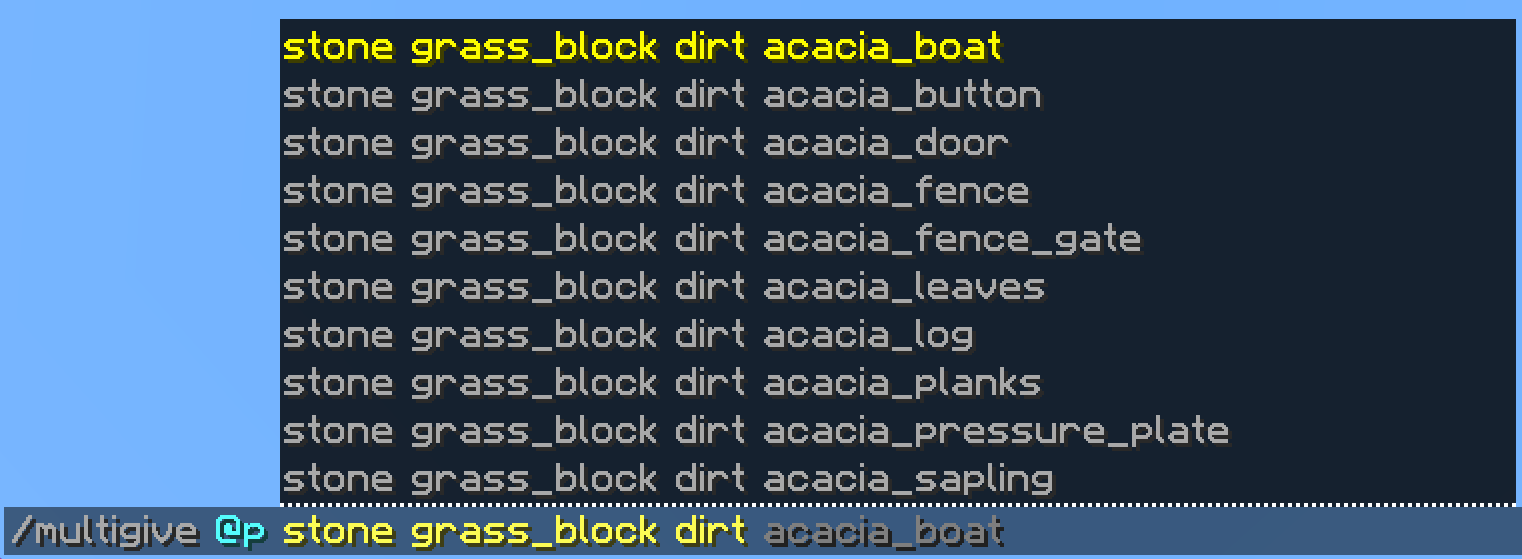
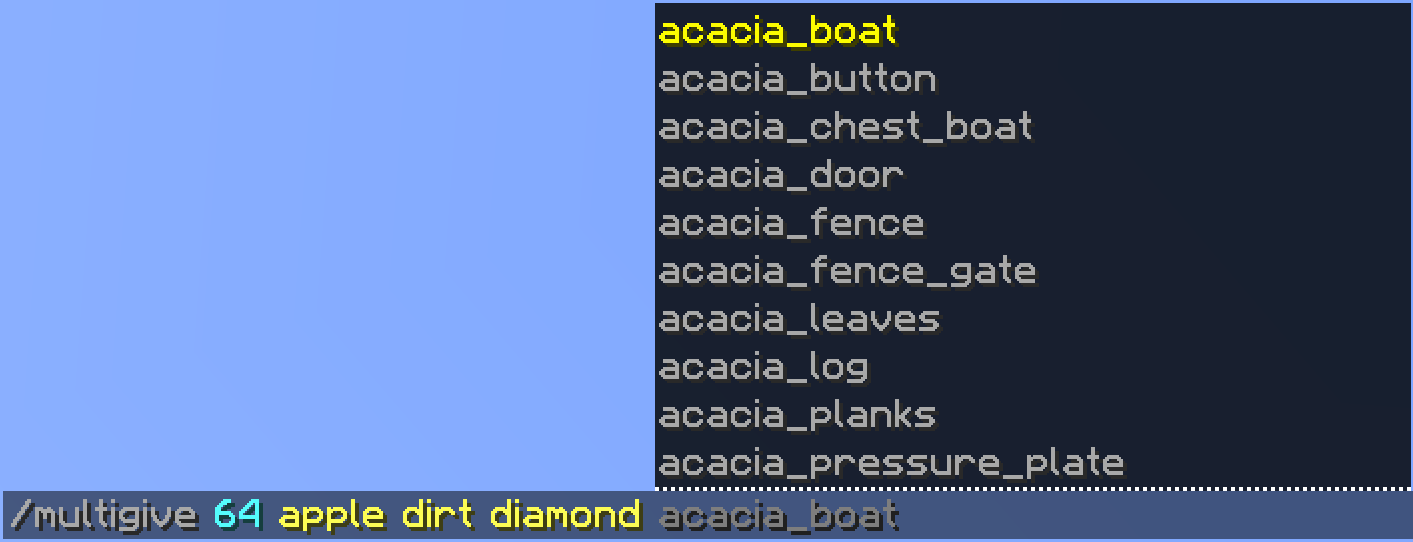
Update list argument and world argument images in the documentation

diff --git a/docssrc/src/commandarguments.md b/docssrc/src/commandarguments.md
@@ -169,7 +169,7 @@ In the above example about restricted commands, we used `null` and `ArgumentSugg
 
 #### Null suggestions
 
-Null suggestions ensure that the suggestions at the current position will not be overridden. In the case of the `CommandArgument`, this means that the default command suggestions will be provided. For example, if we have the following `null` entry in our suggestions, users are allowed to enter a value if they choose to do so, meaning that the examples below are both valid:
+Null suggestions ensure that the suggestions at the current position will not be overridden. In the case of the `CommandArgument`, this means that the default command suggestions will be provided. For example, if we have the following `null` entry in our suggestions, users are allowed to enter a value if they choose to do so, meaning that the examples below are all valid:
 
 ```java
 SuggestionsBranch.suggest(
@@ -181,7 +181,8 @@ SuggestionsBranch.suggest(
 
 ```mccmd
 /give dirt
-/give dirt 10
+/give diamond
+/give apple
 ```
 
 Ending the command argument with nothing is also equivalent to using `null`, for example the following suggestion branch allows any of the following commands:

diff --git a/docssrc/src/worldarguments.md b/docssrc/src/worldarguments.md
@@ -1,5 +1,7 @@
 # World arguments
 
+![A picture of world arguments in action](./images/arguments/worldargument.png)
+
 The `WorldArgument` class allows a command sender to refer to a loaded Bukkit `World`.
 
 <div class="example">
